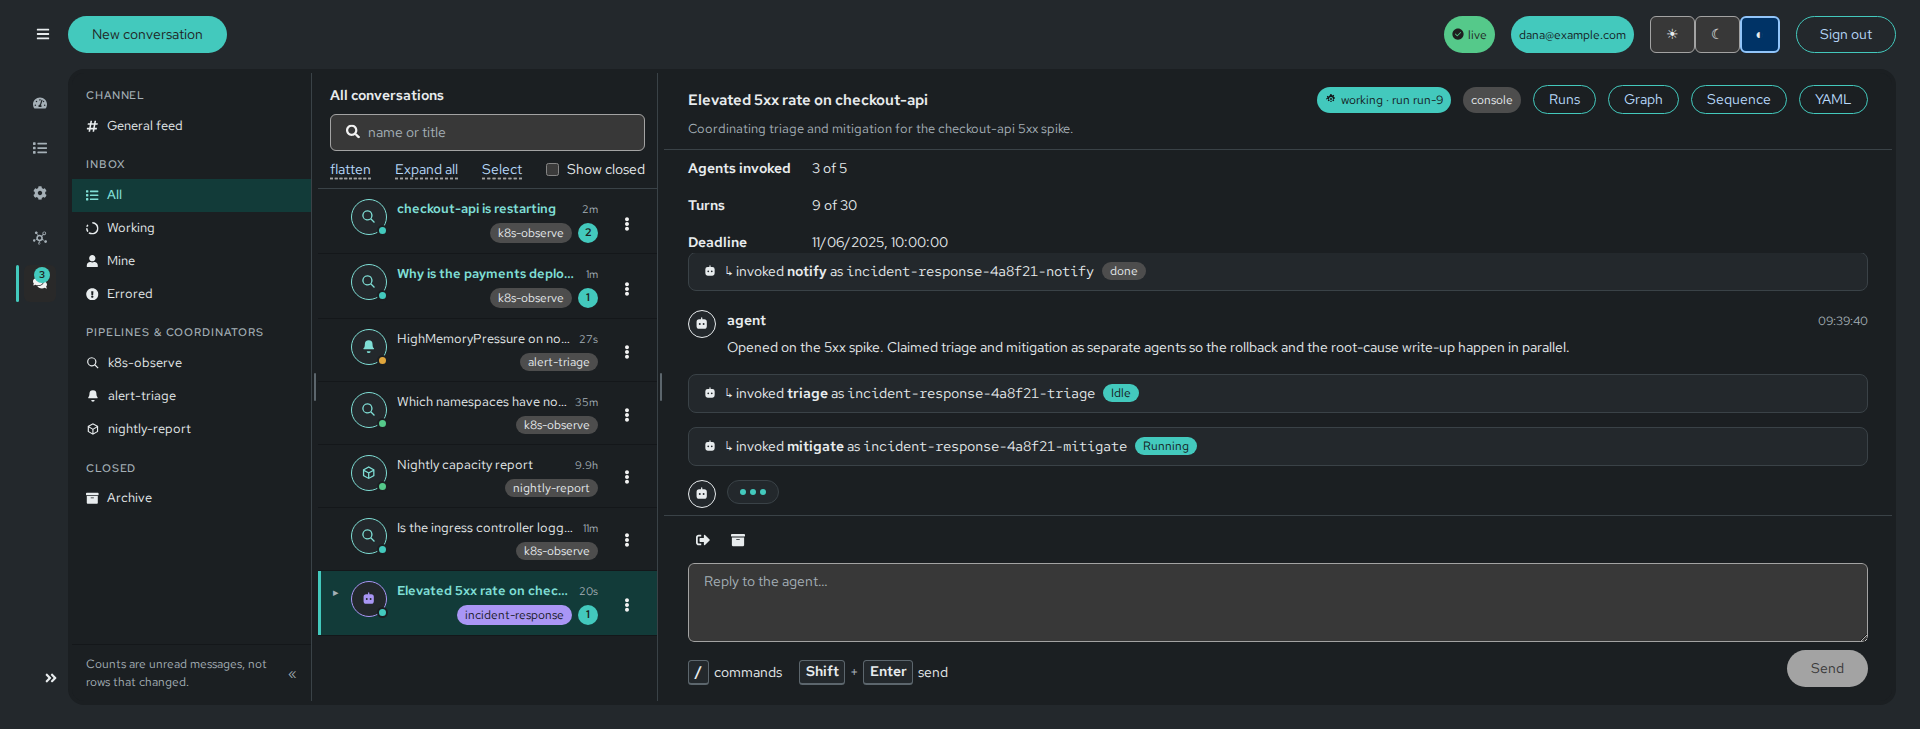
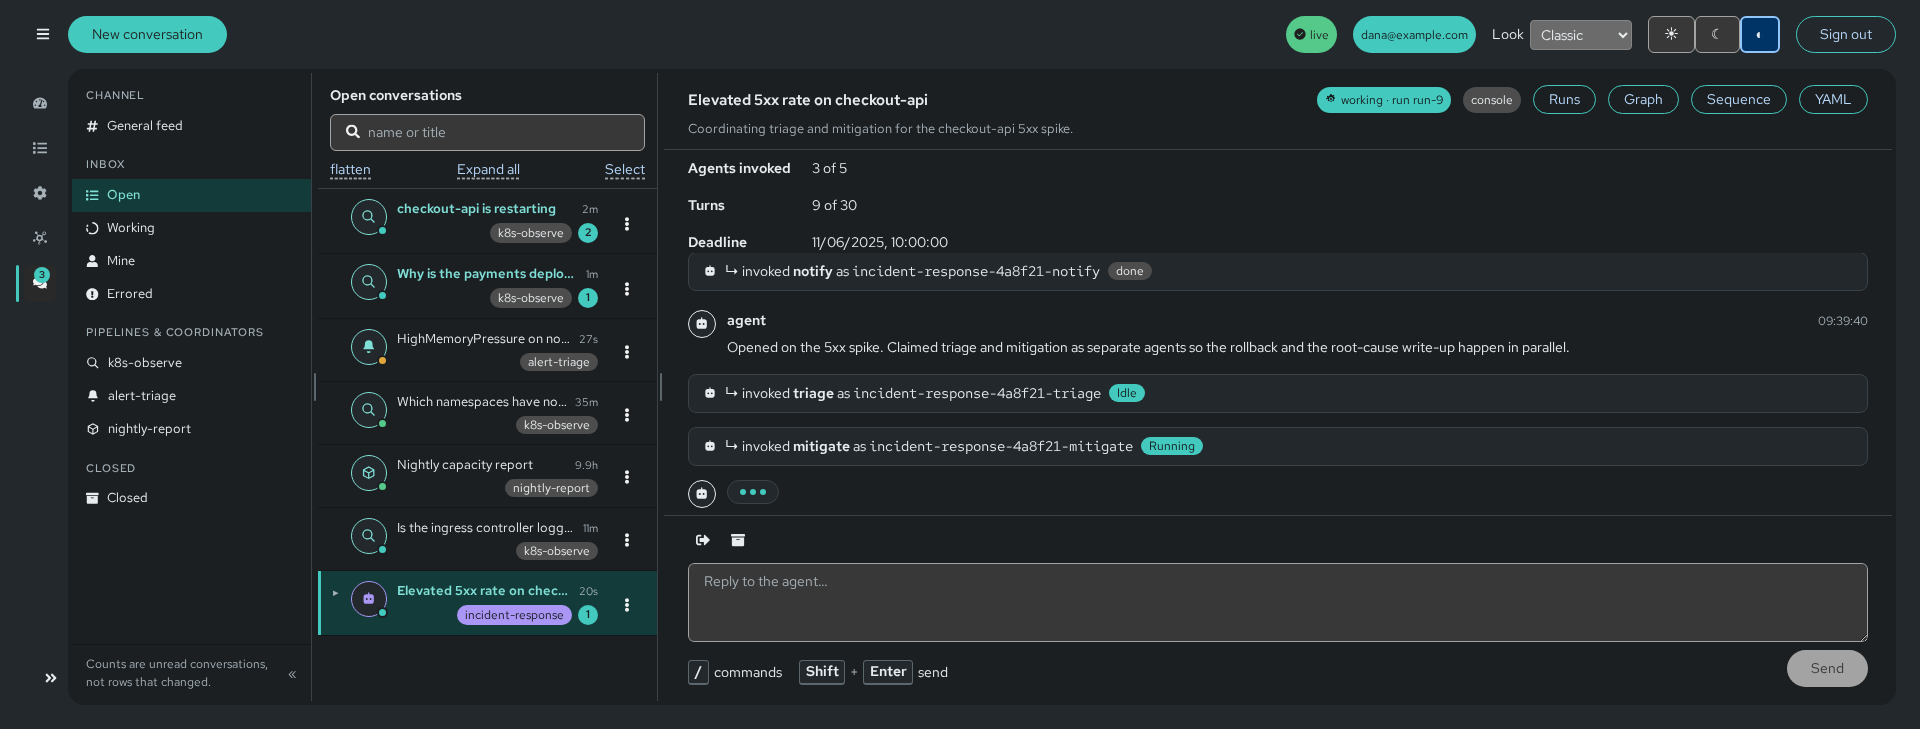
docs(console): document Open/Closed scopes, root-only selection, Archive->Closed
docs/console.md: the scopes table, the Unread section's counter rule (one
rule for every scope's badge, Open's and Closed's included), the member
selection notes in the coordination tree and both batch dialogs, and a new
Counter reference section carrying design.md's full table. docs/console-guide.md's
one stale screenshot alt-text fixed. docs/CHANGELOG.md gets an Unreleased
entry for the breaking showClosed/rootTotal removal.

Regenerated the published console screenshots (all 20 changed) and the demo's
light-theme poster. The dark poster and both demo MP4s could not regenerate —
this sandbox has no working Docker for the ffmpeg encode step — and still
show the retired All/Show closed/Archive wording; flagged in tasks.md and the
pull request for a rerun with Docker available.

Part of console-inbox-open-closed, section 8 of 8 tasks.md sections.

Refs #512

diff --git a/docs/console.md b/docs/console.md
@@ -121,14 +121,15 @@ Three exceptions, each a per-browser preference and neither a fact about any
 conversation:
 
 - The navigation's fold state (`shell.ts`).
-- The Conversations view's pane widths, inbox collapse, "show closed" toggle
-  and the tree's default fold, under `agentops.console.layout`. A root with
-  members starts folded for a first-time viewer, and from there follows
-  whatever "Collapse all" / "Expand all" was last clicked — applied to every
-  root as it is first seen, present at mount or arriving later, so a reload
-  and a live arrival land on the same preference. Reads and writes are
-  guarded in `try`/`catch`, so a private window or a cleared store falls back
-  to the view's defaults rather than breaking it.
+- The Conversations view's pane widths, inbox collapse and the tree's default
+  fold, under `agentops.console.layout`. A root with members starts folded
+  for a first-time viewer, and from there follows whatever "Collapse all" /
+  "Expand all" was last clicked — applied to every root as it is first seen,
+  present at mount or arriving later, so a reload and a live arrival land on
+  the same preference. Reads and writes are guarded in `try`/`catch`, so a
+  private window or a cleared store falls back to the view's defaults rather
+  than breaking it. A stored `showClosed` key from an earlier version is
+  read but no longer applied — there is no preference left for it to drive.
 - The `/close` confirm dialog's "don't ask again" opt-out, under
   `agentops.console.skipCloseConfirm`. Guarded the same way, so a private
   window or a cleared store simply asks again.
@@ -590,7 +591,7 @@ thread pane in place — there is no navigation away from the list.
 | Column | Shows |
 |---|---|
 | Icon rail | the app's own sidebar, collapsed to icons on this view |
-| Inbox | scopes, in this order: All, Working, Mine, Errored, then every Ready Pipeline and Coordinator, then Closed — each with a count matching what opening it lists |
+| Inbox | scopes, in this order: Open, Working, Mine, Errored, then every Ready Pipeline and Coordinator, then Closed — every badge an unread-root count, see [Unread](#unread) |
 | List | the rows in the active scope, as a coordination tree by default |
 | Thread pane | the open conversation |
 
@@ -629,6 +630,10 @@ level with a marker, never dropped.
 **A member carries no conversation-level actions of its own** — mark
 read/unread, reopen, close, delete — because it holds no channel binding. Its
 row menu offers only *Open in new tab*, *Copy link* and *Open incident*.
+
+**A member also carries no selection control.** Only a root renders a
+checkbox, "Select all" picks roots only, and every count the selection bar
+or a dialog shows is a count of selected roots.
 
 Opened directly, its thread pane shows its own run history read-only, with a
 link back to the incident.
@@ -722,52 +727,37 @@ console thread and so no count of its own.
 
 Its result arrives on its root as an input, and is counted there instead.
 
-**All is a total, not an unread count.** It is every conversation a person
-can open, read or not — unchanged from what it always meant.
+**Open replaced All.** It is the default scope and lists every non-closed
+root, read or not — its own list is bigger than its own badge, since opening
+it shows the inbox, not only what is unread.
 
-Every OTHER fixed scope but Closed (Working, Mine, Errored), each Pipeline or
-Coordinator, is an unread count instead.
+**Every badge is an unread-root count**, Open's and Closed's included:
+
+| Scope | Counted when |
+|---|---|
+| Open, and the navigation rail's badge (`unreadTotal`) | `unread ∧ phase≠Closed` |
+| Working, Mine, Errored, each Pipeline or Coordinator | its own predicate `∧ unread ∧ phase≠Closed` |
+| Closed | `unread ∧ phase=Closed` |
 
 That is what made the dedicated Unread scope redundant: every category
-already carried its own unread count one level down. It was removed. All
-was not, and is not an unread count either.
+already carries its own unread count one level down. The [counter
+reference](#counter-reference) has the full table, this row included.
 
 An invoked member never counts, on any scope. It binds no console thread and
 no action of its own — the tree under its root is the only way to reach it.
 
-| Scope | Counts |
-|---|---|
-| All (`kind: 'all'`) | every root, read or not, excluding a closed root while "Show closed" is off |
-| Closed (Archive) | every closed root, read or not — the archive holds everything it ever closed |
-| Working, Mine, Errored, each Pipeline or Coordinator | unread roots its own filter admits |
-
 A Coordinator's own root conversations are reached through ITS scope, same as
 any pipeline's. There is no separate "Incidents" scope.
 
-**"Show closed" moves every count except Closed's own.** Switching scopes
-never moves a count that belongs to a different one, computed before that
-filter applies.
+**One rule excludes a closed row, with no preference that moves it.** Every
+list but Closed's own drops a `phase=Closed` row. Closed's own list is the
+mirror image, showing only `phase=Closed` rows.
 
-Every list but Closed's own hides a closed row while the toggle is off —
-All included — so a badge for one of those lists excludes that row too.
+The same rule bounds the badges. A scope's count is never inflated by a row
+its own list would not show.
 
-Closed's own list is exempt from that one filter — it IS the closed view —
-so its count ignores the toggle too.
-
-**Unread is the separate axis Closed and All both sit outside of.** A read
-closed conversation still belongs to the archive, the same way a read
-email still belongs in "All Mail".
-
-So Closed's count, like All's, is never gated on unread either. There is
-no "show closed" checkbox on this scope — the whole point of it is to show
-everything, unfiltered.
-
-**The navigation rail's own badge, outside the Inbox, is a plain unread
-count** — `unreadTotal`, every unread root, no further filter, the same
-number the removed Unread scope used to show.
-
-It answers "is there anything to read", a different question from what All
-answers now.
+**The navigation rail's badge is Open's own count, read twice.**
+`unreadTotal` and `scopes.open` are the same number, computed once.
 
 Opening a conversation reports it read, at `max(the newest counted message's
 time, status.lastActivity)` — the second term keeps the report monotone
@@ -844,9 +834,9 @@ the list is therefore quiet, and fills as new activity arrives.
 
 ### Closing a batch
 
-Select rows and press **Close selected**. The confirmation names the count, how
-many of them are working, and that the conversation stays and **can be
-reopened** — closing is reversible.
+Select rows and press **Close selected**. The confirmation names the count of
+selected roots, how many of them are working, and that the conversation stays
+and **can be reopened** — closing is reversible.
 
 **It is `/close`, fanned out.** Each selected conversation is sent the literal
 text `/close` on its own console thread, exactly as a person typing it would.
@@ -891,13 +881,17 @@ What that costs, and why each cost is the right one:
 
 **Closing cascades to every live descendant.** `/close` on a root closes
 every conversation it caused, recursively, in the manager — not a second
-request the console makes. The confirmation names the member count the
-cascade will also reach.
+request the console makes.
 
-**A member selected directly is skipped, naming its parent.** It holds no
-channel binding, so there is nothing to send `/close` to — selecting its
-root reaches it instead. The row menu agrees: a member's menu offers no
-close action at all.
+The confirmation names the member count the cascade will also reach, and how
+many of those members are working, on its own line — never folded into the
+title or the root count.
+
+**A member cannot be selected, so this view never names one directly.** No
+row renders a checkbox for one, and its own row menu offers no close action.
+
+The manager's own `causedBy.parent` guard refuses a member named any other
+way — the same refusal the UI already prevents by never offering one.
 
 ### Reopening one
 
@@ -933,6 +927,9 @@ of the lifecycle, and the confirmation says what goes: **the recorded answers**,
 which are the only durable copy of what the agent said, and **the workspace on
 disk**.
 
+The title counts selected roots, same as closing. A member the cascade also
+reaches is named on its own line, separate from that count.
+
 - **Only `Closed` conversations are candidates.** A live one named in a batch
   anyway comes back `skipped` with *close it first* — never closed on the way
   through. One call doing the irreversible thing to a conversation that was
@@ -947,9 +944,9 @@ disk**.
 closing does, and for the same reason: a member holds no channel of its
 own, so the console has no way to reach it directly.
 
-A member selected directly is skipped and names its parent, exactly as for
-closing. Every descendant is already `Closed` by the time its root is, so
-none is ever turned away as not-yet-closed.
+A member cannot be selected, exactly as for closing, so this view never
+names one directly. Every descendant is already `Closed` by the time its
+root is, so none is ever turned away as not-yet-closed.
 
 **Delete and reopen are manager verbs the console calls**, not Kubernetes
 writes — the console still has no write path to the API.
@@ -966,6 +963,60 @@ Disk is **not** reclaimed by deleting. The conversation's workspace directory
 and session transcripts become orphans, and the opt-in housekeeping CronJob
 removes them on its next run — see
 [concepts](concepts.md#what-reclaims-what-and-why-the-manager-cannot).
+
+## Counter reference
+
+Every counter the console shows for conversations, in one table. **root** is
+a conversation with `causedBy.parent = ""`. **unread** is `unreadCount > 0`.
+
+| Counter | Where shown | Formula |
+|---|---|---|
+| Row unread badge (`unreadCount`) | Conversation row | Messages with `kind ∈ {signal, agent, relay}`, not `InternalRound`, `at > readAt`. Console thread only, 0 if not joined. |
+| Open | Inbox | Roots with `phase≠Closed ∧ unread`. |
+| Nav-rail badge (`unreadTotal`) | Navigation | Roots with `phase≠Closed ∧ unread` — the same number as Open. |
+| Working | Inbox | Roots with `phase=Working ∧ unread`. |
+| Mine | Inbox | Roots with `mine ∧ phase≠Closed ∧ unread`. |
+| Errored | Inbox | Roots with `lastRun.status≠succeeded ∧ phase≠Closed ∧ unread`. |
+| Pipeline / Coordinator | Inbox | Roots with `(pipeline=X ∨ coordinator=X) ∧ phase≠Closed ∧ unread`. |
+| Closed | Inbox | Roots with `phase=Closed ∧ unread`. |
+| Run count | Closed row snippet | `len(status.runs)` |
+| Age | Row | `now − (lastActivity ∥ created)`, floored at 0. |
+| Member count | Tree row | `len(descendantsOf(items, name))` |
+| N selected | Selection bar | `count(selected roots)`. A member is never selectable. |
+| Close (n) / Delete (n) | Selection bar buttons | `n = count(selected roots)` |
+| Close dialog title | Close dialog | `count(selected roots)` |
+| Delete dialog title | Delete dialog | `count(selected roots)` |
+| Member line | Close and delete dialogs | `Σ over selected roots of len(descendantsOf(items, root))`. Its own line, never folded into the title. |
+| Working warning | Close dialog | `count(selected roots with phase=Working)`. The member line also names working members. |
+| N closed / skipped / failed | Close result | Per-root server outcomes. |
+| N deleted / skipped / failed | Delete result | Per-root server outcomes. |
+| Select all | List header | Every root on the page not already closing or being deleted. |
+| Mark read / unread: marked / skipped / failed | Result of mark read or unread | Count of per-root outcomes. |
+| Mark read sets | Read watermark | `max(newestCounted.at, lastActivity)` → `unreadCount=0` |
+| Mark unread sets | Read watermark | `newestCounted.at − 1ns` → `unreadCount=1` |
+| "New messages" divider | Thread | Placed before the first counted message with `at > readAt`. |
+| "↓ N new messages" | Thread | +1 each time the body-message count grows while scrolled up and no divider is shown. |
+| Body message count | Thread | `count(messages where kind ≠ ack)` |
+| "N events" | Run event group | `group.events.length` (shown if greater than 1). |
+| "new" tag | List row | Name not in the previous snapshot for the same scope. Clears after 4s. |
+| Agents invoked | Coordinator budget | `agentsInvoked of maxAgents` (or just `agentsInvoked` if no max). |
+| Turns (budget) | Coordinator budget | `turns of maxTurns` (or just `turns` if no max). |
+| Turns table title | Run detail | `len(turns)` model calls. |
+| Tool calls table title | Run detail | `len(toolCalls)` |
+| Fresh tokens | Run turn | `tokensIn − cacheRead − cacheCreation`, shown as "—" if `tokensIn` is absent. |
+| Work row queued | Queues | `len(spec.inputs)` |
+| Inflight age | Queues | `now − inflight.dispatchedAt`, stuck if > 15 min. |
+| Capacity in use / max / waiting | Queues | From the manager's `/status` `runtimeSlots`. |
+| Delivery queued / claimed | Queues | Per adapter, from `/status`. |
+| Delivery stuck | Queues | `adapter-wedged` if `claimed>0 ∧ oldestClaimed>2m`. Otherwise `nothing-claiming` if `queued>0 ∧ oldestQueued>2m`. |
+| Edge Events | Topology | Count of hops on the edge within the window. |
+| Edge Errors | Topology | Count of those hops with `status=error`. |
+| Edge Rate/min | Topology | `Events / window.minutes` |
+| Edge p50 | Topology | `sorted(latencies)[len/2]`, using only hops with latency > 0. |
+| Edge max | Topology | `max(latencies)` |
+| Problems (N) | Overview | Non-True conditions across all kinds, plus pod failures and console-derived findings. |
+| Workload restarts | Overview | `Σ restartCount` over containers of pods named `<deployment>-*`. |
+| Adapter "serves" | Overview | Count of Channels or SignalSources whose `spec.adapter` equals this adapter's name. |
 
 ## Starting a conversation
 

diff --git a/openspec/changes/console-inbox-open-closed/tasks.md b/openspec/changes/console-inbox-open-closed/tasks.md
@@ -50,14 +50,14 @@
 
 Reference docs:
 
-- [ ] 8.1 Update the scopes table in `docs/console.md` for Open and Closed, the unread-roots rule, and remove the "Show closed" paragraphs and the layout-preference mention
-- [ ] 8.2 Update `docs/console.md` for root-only selection and the member line in the dialogs
-- [ ] 8.3 Update `docs/console-guide.md` where it names All, Archive or the checkbox
-- [ ] 8.4 Add a `docs/CHANGELOG.md` entry that `showClosed` and `rootTotal` leave the console's conversations API and the Closed badge is now unread-only
-- [ ] 8.5 Add the counter table from `design.md` to `docs/console.md`, or link it from there, and verify it matches the code
+- [x] 8.1 Update the scopes table in `docs/console.md` for Open and Closed, the unread-roots rule, and remove the "Show closed" paragraphs and the layout-preference mention
+- [x] 8.2 Update `docs/console.md` for root-only selection and the member line in the dialogs
+- [x] 8.3 Update `docs/console-guide.md` where it names All, Archive or the checkbox. Only the conversations-light.png alt text named any of them (a closed row no longer visible under Open), and it is fixed. "Every scope carries its own sum" names none of the three and was left alone
+- [x] 8.4 Add a `docs/CHANGELOG.md` entry that `showClosed` and `rootTotal` leave the console's conversations API and the Closed badge is now unread-only
+- [x] 8.5 Add the counter table from `design.md` to `docs/console.md`, or link it from there, and verify it matches the code. Added as its own `## Counter reference` section, dropping the table's "Change" column (states what the proposal changed, not what IS) and spot-verified against `accumulateScopeCounts`, `selectionState`, `SelectionBar.tsx`, `CloseConversations.tsx` and `DeleteConversations.tsx`
 
 Adopter site:
 
-- [ ] 8.6 Update the landing page, `docs/introduction.md` and `docs/getting-started.md` where they show the inbox
-- [ ] 8.7 Re-run `npm run screenshots` and `npm run demo` in `platform/console/ui` and verify the assets changed
-- [ ] 8.8 Run `publication-guard.py`, `retired-vocabulary-guard.py` and `docs-generate.py --check` and verify a clean verdict
+- [x] 8.6 Update the landing page, `docs/introduction.md` and `docs/getting-started.md` where they show the inbox. None of the three names All/Archive/the checkbox or embeds a conversations screenshot — `index.md`'s only console asset is the demo recording's poster, regenerated by 8.7 instead of hand-edited
+- [x] 8.7 Re-run `npm run screenshots` and `npm run demo` in `platform/console/ui` and verify the assets changed. `screenshots` succeeded, all 20 PNGs changed, spot-checked against both themes. `demo` built the light frames and updated `console-demo-poster-light.png`, then failed encoding both themes' MP4 and the dark poster: this sandbox's `dockerd` cannot start (`ulimit: Operation not permitted`), and the encode step shells out to `docker run mwader/static-ffmpeg`. `console-demo-poster-dark.png`, `console-demo-light.mp4` and `console-demo-dark.mp4` are therefore UNCHANGED and still show the retired "All conversations" / "Show closed" / "Archive" wording — confirmed by reading the stale dark poster. Needs a re-run with Docker available before this is fully shipped
+- [x] 8.8 Run `publication-guard.py`, `retired-vocabulary-guard.py` and `docs-generate.py --check` and verify a clean verdict. All three clean

diff --git a/docs/CHANGELOG.md b/docs/CHANGELOG.md
@@ -10,6 +10,27 @@ for the source and the reference material beside this file.
 
 ## [Unreleased]
 
+**BREAKING (console only). `GET /api/conversations` drops `showClosed` and
+`rootTotal`.** A browser's stored `showClosed` preference is harmless and
+ignored.
+
+### Changed
+
+- **The console's Open scope replaces All**, and is the default. It lists
+  root conversations with `phase≠Closed`. Closed rows no longer show behind
+  a "Show closed" toggle on any other scope — the toggle and its stored
+  preference are gone, and Open excludes them the same way Working, Mine and
+  Errored already did.
+- **Every inbox badge, Open's and Closed's included, counts unread roots.**
+  The Closed badge used to count every closed root, read or not — it now
+  matches every other scope and counts only the unread ones.
+- **"Archive" reads "Closed"** in every user-visible string: the inbox row,
+  the thread banner, the close dialog and the `/close` chip.
+- **Selection counts roots.** "N selected", the button suffixes and the
+  dialog titles count selected roots. A member carries no selection control
+  and cannot be selected. The dialogs still name the member count the
+  cascade reaches, on its own line.
+
 ## [21.0.0] — 2026-11-19
 
 Images: manager 0.63.0, console 0.43.0, signal-k8s-events 0.7.0, runtime-pi

diff --git a/docs/console-guide.md b/docs/console-guide.md
@@ -88,7 +88,7 @@ Five views, one question each.
   its member count, turn and deadline. Flatten it for the plain newest-first
   order instead.
 
-  ![The Conversations view with nothing open: the inbox rail with its scopes and counts, and a coordination tree — a two-level incident nested under its root, a closed root marked "nobody notified", a pending alert and a working chat conversation.]({{ '/assets/img/console/conversations-light.png' | relative_url }})
+  ![The Conversations view with nothing open: the inbox rail with its Open, Working, Mine, Errored, Pipelines & Coordinators and Closed scopes, their counts, and a coordination tree — a two-level incident collapsed under its root, a pending alert and a working chat conversation.]({{ '/assets/img/console/conversations-light.png' | relative_url }})
 
   Opening a row switches the thread pane in place — the URL changes, the
   list does not move.
